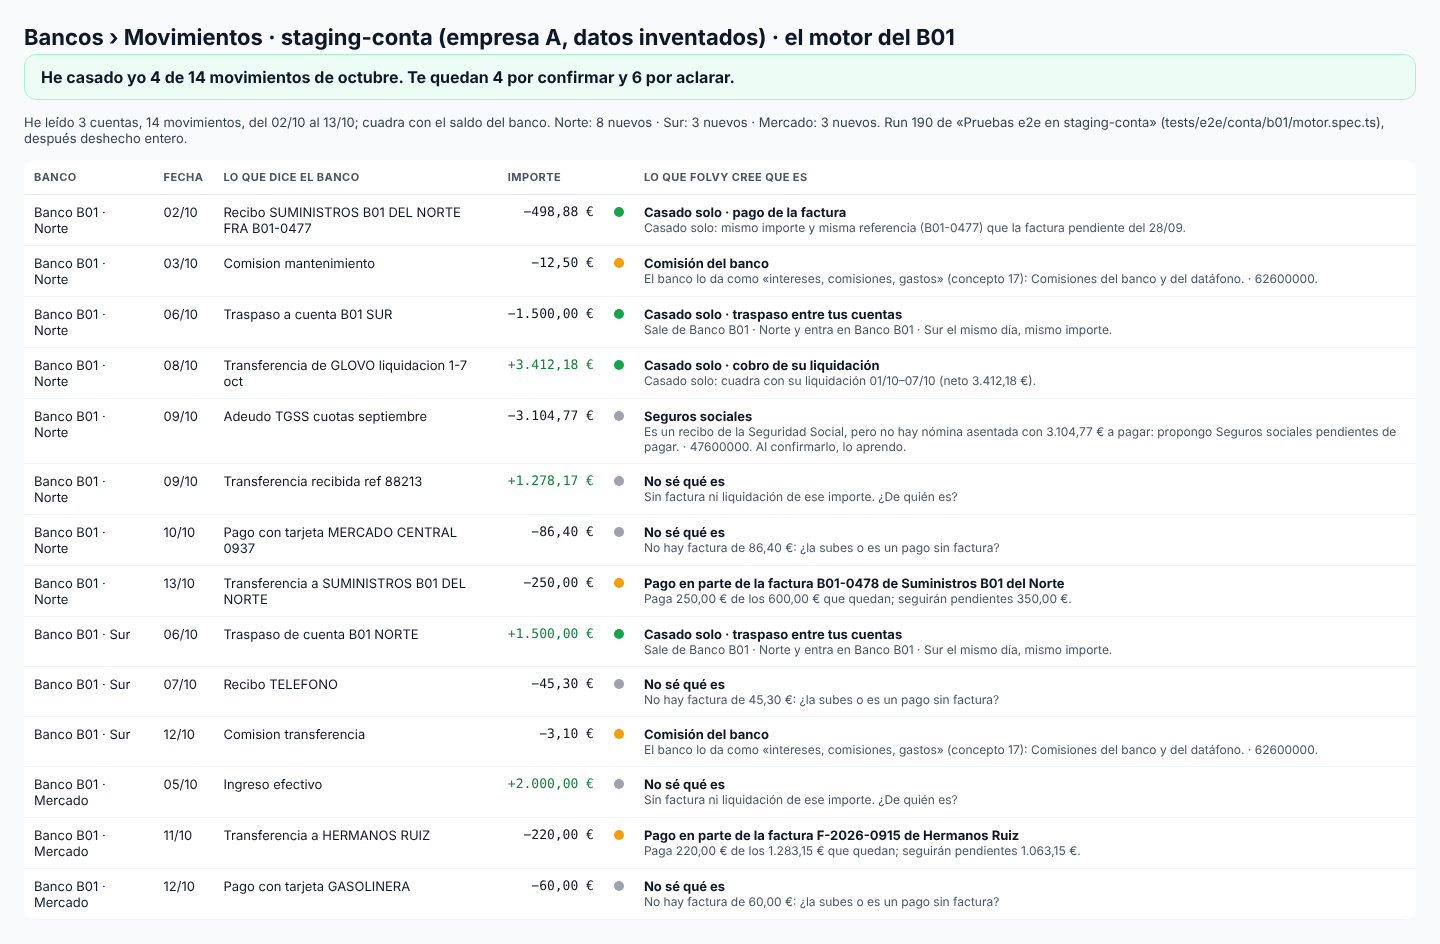
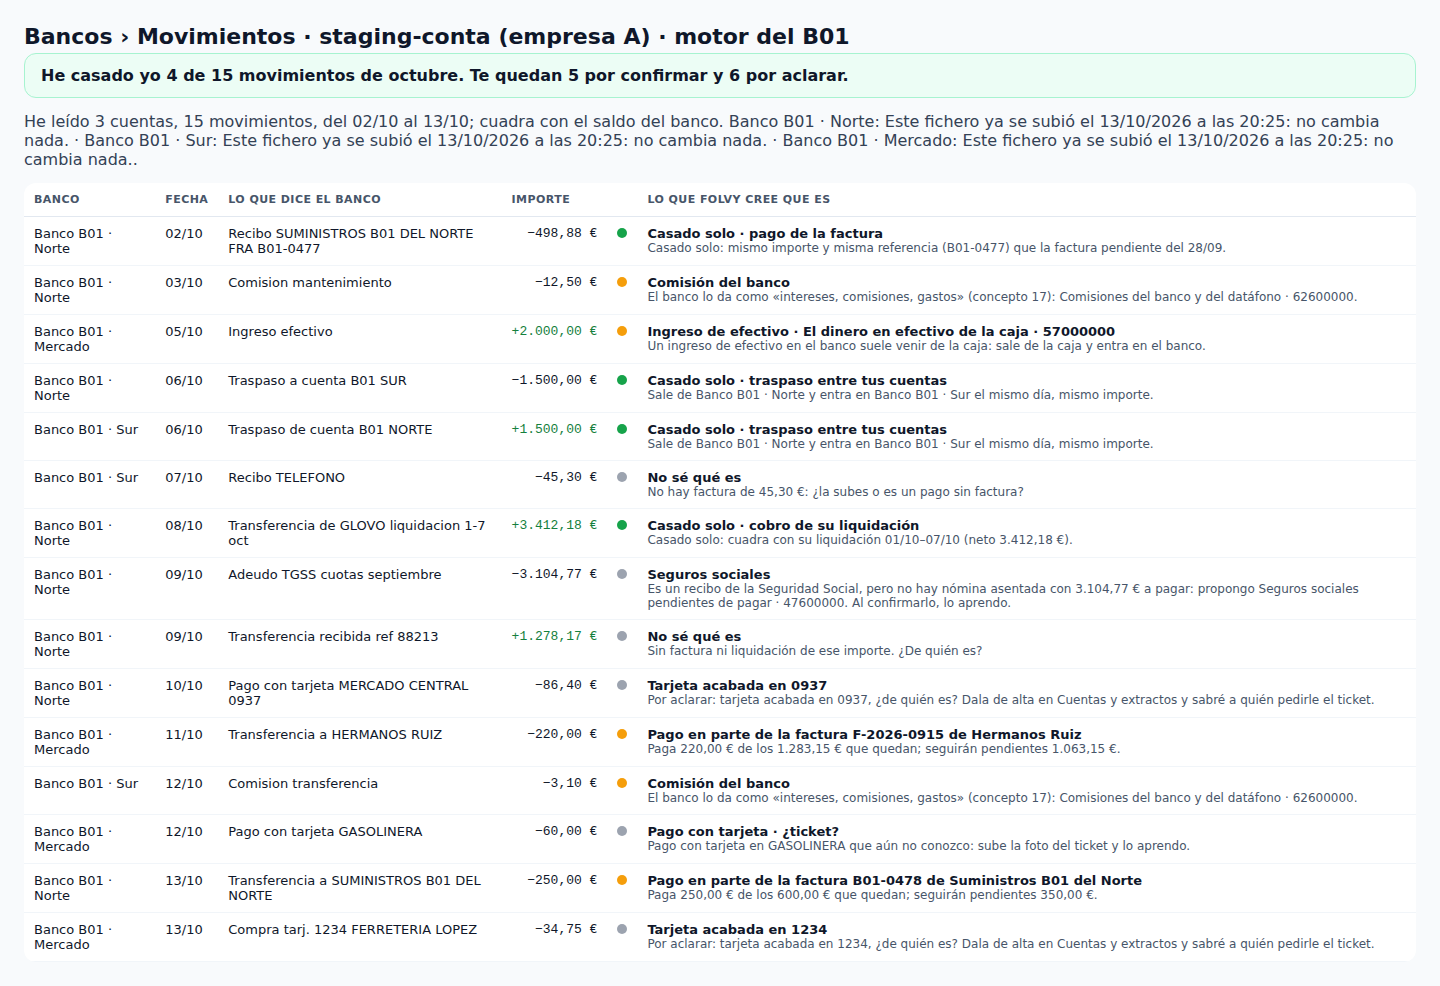
Capturas en staging-conta (a7eb3c9, ordenador y móvil)

diff --git a/docs/conta/capturas/b01/motor.md b/docs/conta/capturas/b01/motor.md
@@ -1,28 +1,26 @@
 # B01 · El motor en staging-conta (empresa A, datos inventados)
 
-Run 190 de «Pruebas e2e en staging-conta» (`tests/e2e/conta/b01/motor.spec.ts`, commit 9528ec7), 13/10/2026 16:42 UTC: **pasó**.
-Las capturas no las subió el workflow porque fallaron otras 6 pruebas ajenas a B01 (§ del parte). Esta tabla sale de lo que la
-demostración dejó escrito en staging (`bank_activity_log`), con el estado final de cada movimiento y el porqué LITERAL que se
-escribió (con dos fallos que se ven y ya están corregidos: el punto que arrastra el nombre de la cuenta, y la tarjeta y el
-efectivo con la frase genérica). La imagen se renderiza con el mismo HTML que la prueba.
+Generado por `tests/e2e/conta/b01/motor.spec.ts`. He leído 3 cuentas, 15 movimientos, del 02/10 al 13/10; cuadra con el saldo del banco.
 
-He leído 3 cuentas, 14 movimientos, del 02/10 al 13/10; cuadra con el saldo del banco.
+Importación: Banco B01 · Norte: Este fichero ya se subió el 13/10/2026 a las 20:25: no cambia nada. · Banco B01 · Sur: Este fichero ya se subió el 13/10/2026 a las 20:25: no cambia nada. · Banco B01 · Mercado: Este fichero ya se subió el 13/10/2026 a las 20:25: no cambia nada..
 
 | Banco | Fecha | Lo que dice el banco | Importe | Estado | Lo que Folvy cree que es | Porqué |
 |---|---|---|---:|---|---|---|
-| Banco B01 · Norte | 02/10 | Recibo SUMINISTROS B01 DEL NORTE FRA B01-0477 | −498,88 € | casado solo | Casado solo · pago de la factura | Casado solo: mismo importe y misma referencia (B01-0477) que la factura pendiente del 28/09. |
-| Banco B01 · Norte | 03/10 | Comision mantenimiento | −12,50 € | para confirmar | Comisión del banco | El banco lo da como «intereses, comisiones, gastos» (concepto 17): Comisiones del banco y del datáfono. · 62600000. |
-| Banco B01 · Norte | 06/10 | Traspaso a cuenta B01 SUR | −1.500,00 € | casado solo | Casado solo · traspaso entre tus cuentas | Sale de Banco B01 · Norte y entra en Banco B01 · Sur el mismo día, mismo importe. |
-| Banco B01 · Norte | 08/10 | Transferencia de GLOVO liquidacion 1-7 oct | +3.412,18 € | casado solo | Casado solo · cobro de su liquidación | Casado solo: cuadra con su liquidación 01/10–07/10 (neto 3.412,18 €). |
-| Banco B01 · Norte | 09/10 | Adeudo TGSS cuotas septiembre | −3.104,77 € | por aclarar | Seguros sociales | Es un recibo de la Seguridad Social, pero no hay nómina asentada con 3.104,77 € a pagar: propongo Seguros sociales pendientes de pagar. · 47600000. Al confirmarlo, lo aprendo. |
-| Banco B01 · Norte | 09/10 | Transferencia recibida ref 88213 | +1.278,17 € | por aclarar | No sé qué es | Sin factura ni liquidación de ese importe. ¿De quién es? |
-| Banco B01 · Norte | 10/10 | Pago con tarjeta MERCADO CENTRAL 0937 | −86,40 € | por aclarar | No sé qué es | No hay factura de 86,40 €: ¿la subes o es un pago sin factura? |
-| Banco B01 · Norte | 13/10 | Transferencia a SUMINISTROS B01 DEL NORTE | −250,00 € | para confirmar | Pago en parte de la factura B01-0478 de Suministros B01 del Norte | Paga 250,00 € de los 600,00 € que quedan; seguirán pendientes 350,00 €. |
-| Banco B01 · Sur | 06/10 | Traspaso de cuenta B01 NORTE | +1.500,00 € | casado solo | Casado solo · traspaso entre tus cuentas | Sale de Banco B01 · Norte y entra en Banco B01 · Sur el mismo día, mismo importe. |
-| Banco B01 · Sur | 07/10 | Recibo TELEFONO | −45,30 € | por aclarar | No sé qué es | No hay factura de 45,30 €: ¿la subes o es un pago sin factura? |
-| Banco B01 · Sur | 12/10 | Comision transferencia | −3,10 € | para confirmar | Comisión del banco | El banco lo da como «intereses, comisiones, gastos» (concepto 17): Comisiones del banco y del datáfono. · 62600000. |
-| Banco B01 · Mercado | 05/10 | Ingreso efectivo | +2.000,00 € | por aclarar | No sé qué es | Sin factura ni liquidación de ese importe. ¿De quién es? |
-| Banco B01 · Mercado | 11/10 | Transferencia a HERMANOS RUIZ | −220,00 € | para confirmar | Pago en parte de la factura F-2026-0915 de Hermanos Ruiz | Paga 220,00 € de los 1.283,15 € que quedan; seguirán pendientes 1.063,15 €. |
-| Banco B01 · Mercado | 12/10 | Pago con tarjeta GASOLINERA | −60,00 € | por aclarar | No sé qué es | No hay factura de 60,00 €: ¿la subes o es un pago sin factura? |
+| Banco B01 · Norte | 2026-10-02 | Recibo SUMINISTROS B01 DEL NORTE FRA B01-0477 | −498,88 € | casado solo | Casado solo · pago de la factura | Casado solo: mismo importe y misma referencia (B01-0477) que la factura pendiente del 28/09. |
+| Banco B01 · Norte | 2026-10-03 | Comision mantenimiento | −12,50 € | para confirmar | Comisión del banco | El banco lo da como «intereses, comisiones, gastos» (concepto 17): Comisiones del banco y del datáfono · 62600000. |
+| Banco B01 · Mercado | 2026-10-05 | Ingreso efectivo | 2.000,00 € | para confirmar | Ingreso de efectivo · El dinero en efectivo de la caja · 57000000 | Un ingreso de efectivo en el banco suele venir de la caja: sale de la caja y entra en el banco. |
+| Banco B01 · Norte | 2026-10-06 | Traspaso a cuenta B01 SUR | −1.500,00 € | casado solo | Casado solo · traspaso entre tus cuentas | Sale de Banco B01 · Norte y entra en Banco B01 · Sur el mismo día, mismo importe. |
+| Banco B01 · Sur | 2026-10-06 | Traspaso de cuenta B01 NORTE | 1.500,00 € | casado solo | Casado solo · traspaso entre tus cuentas | Sale de Banco B01 · Norte y entra en Banco B01 · Sur el mismo día, mismo importe. |
+| Banco B01 · Sur | 2026-10-07 | Recibo TELEFONO | −45,30 € | por aclarar | No sé qué es | No hay factura de 45,30 €: ¿la subes o es un pago sin factura? |
+| Banco B01 · Norte | 2026-10-08 | Transferencia de GLOVO liquidacion 1-7 oct | 3.412,18 € | casado solo | Casado solo · cobro de su liquidación | Casado solo: cuadra con su liquidación 01/10–07/10 (neto 3.412,18 €). |
+| Banco B01 · Norte | 2026-10-09 | Adeudo TGSS cuotas septiembre | −3.104,77 € | por aclarar | Seguros sociales | Es un recibo de la Seguridad Social, pero no hay nómina asentada con 3.104,77 € a pagar: propongo Seguros sociales pendientes de pagar · 47600000. Al confirmarlo, lo aprendo. |
+| Banco B01 · Norte | 2026-10-09 | Transferencia recibida ref 88213 | 1.278,17 € | por aclarar | No sé qué es | Sin factura ni liquidación de ese importe. ¿De quién es? |
+| Banco B01 · Norte | 2026-10-10 | Pago con tarjeta MERCADO CENTRAL 0937 | −86,40 € | por aclarar | Tarjeta acabada en 0937 | Por aclarar: tarjeta acabada en 0937, ¿de quién es? Dala de alta en Cuentas y extractos y sabré a quién pedirle el ticket. |
+| Banco B01 · Mercado | 2026-10-11 | Transferencia a HERMANOS RUIZ | −220,00 € | para confirmar | Pago en parte de la factura F-2026-0915 de Hermanos Ruiz | Paga 220,00 € de los 1.283,15 € que quedan; seguirán pendientes 1.063,15 €. |
+| Banco B01 · Sur | 2026-10-12 | Comision transferencia | −3,10 € | para confirmar | Comisión del banco | El banco lo da como «intereses, comisiones, gastos» (concepto 17): Comisiones del banco y del datáfono · 62600000. |
+| Banco B01 · Mercado | 2026-10-12 | Pago con tarjeta GASOLINERA | −60,00 € | por aclarar | Pago con tarjeta · ¿ticket? | Pago con tarjeta en GASOLINERA que aún no conozco: sube la foto del ticket y lo aprendo. |
+| Banco B01 · Norte | 2026-10-13 | Transferencia a SUMINISTROS B01 DEL NORTE | −250,00 € | para confirmar | Pago en parte de la factura B01-0478 de Suministros B01 del Norte | Paga 250,00 € de los 600,00 € que quedan; seguirán pendientes 350,00 €. |
+| Banco B01 · Mercado | 2026-10-13 | Compra tarj. 1234 FERRETERIA LOPEZ | −34,75 € | por aclarar | Tarjeta acabada en 1234 | Por aclarar: tarjeta acabada en 1234, ¿de quién es? Dala de alta en Cuentas y extractos y sabré a quién pedirle el ticket. |
 
-Al terminar, la prueba lo deshizo todo y comprobó que la empresa A tenía los mismos asientos que antes.
+Asientos de la empresa A antes: 12.
+Asientos de la empresa A después de deshacer: 12 (antes 12).
